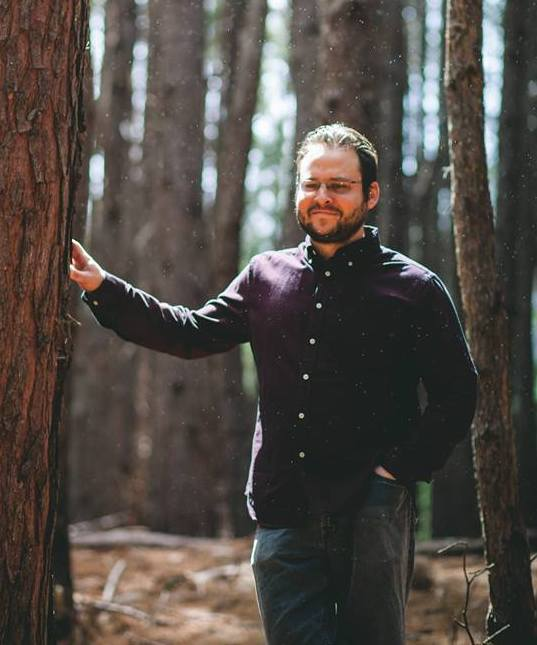
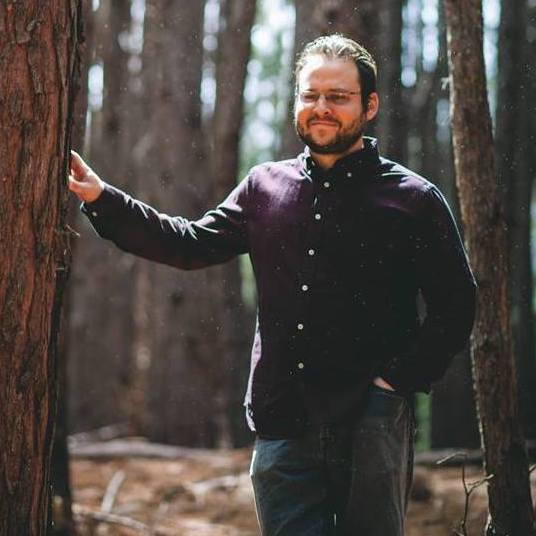
update all images to squares and updated about us

diff --git a/src/component/about-us/index.js b/src/component/about-us/index.js
@@ -29,7 +29,6 @@ class About extends React.Component{
 
                   <div className="media-content has-text-centered">
                     <p className="title is-3">Andrew Bloom</p>
-                    <p className="subtitle is-6">"Backend Magician"</p>
                   </div>
                 </div>
 
@@ -56,7 +55,6 @@ class About extends React.Component{
 
                   <div className="media-content has-text-centered">
                     <p className="title is-3">Nicholas Carnignan</p>
-                    <p className="subtitle is-6">"Makes Backend dreams come true"</p>
                   </div>
                 </div>
 
@@ -83,7 +81,6 @@ class About extends React.Component{
 
                   <div className="media-content has-text-centered">
                     <p className="title is-3">Shannon Dillon</p>
-                    <p className="subtitle is-6">"React rules my world"</p>
                   </div>
                 </div>
 
@@ -111,7 +108,6 @@ class About extends React.Component{
 
                   <div className="media-content has-text-centered">
                     <p className="title is-3">Jacob Evans</p>
-                    <p className="subtitle is-6">"Resident Machine Learning Human"</p>
                   </div>
                 </div>
 
@@ -140,7 +136,6 @@ class About extends React.Component{
 
                   <div className="media-content has-text-centered">
                     <p className="title is-3">David Lindahl</p>
-                    <p className="subtitle is-6">Jack of All Things CSS</p>
                   </div>
                 </div>
 
